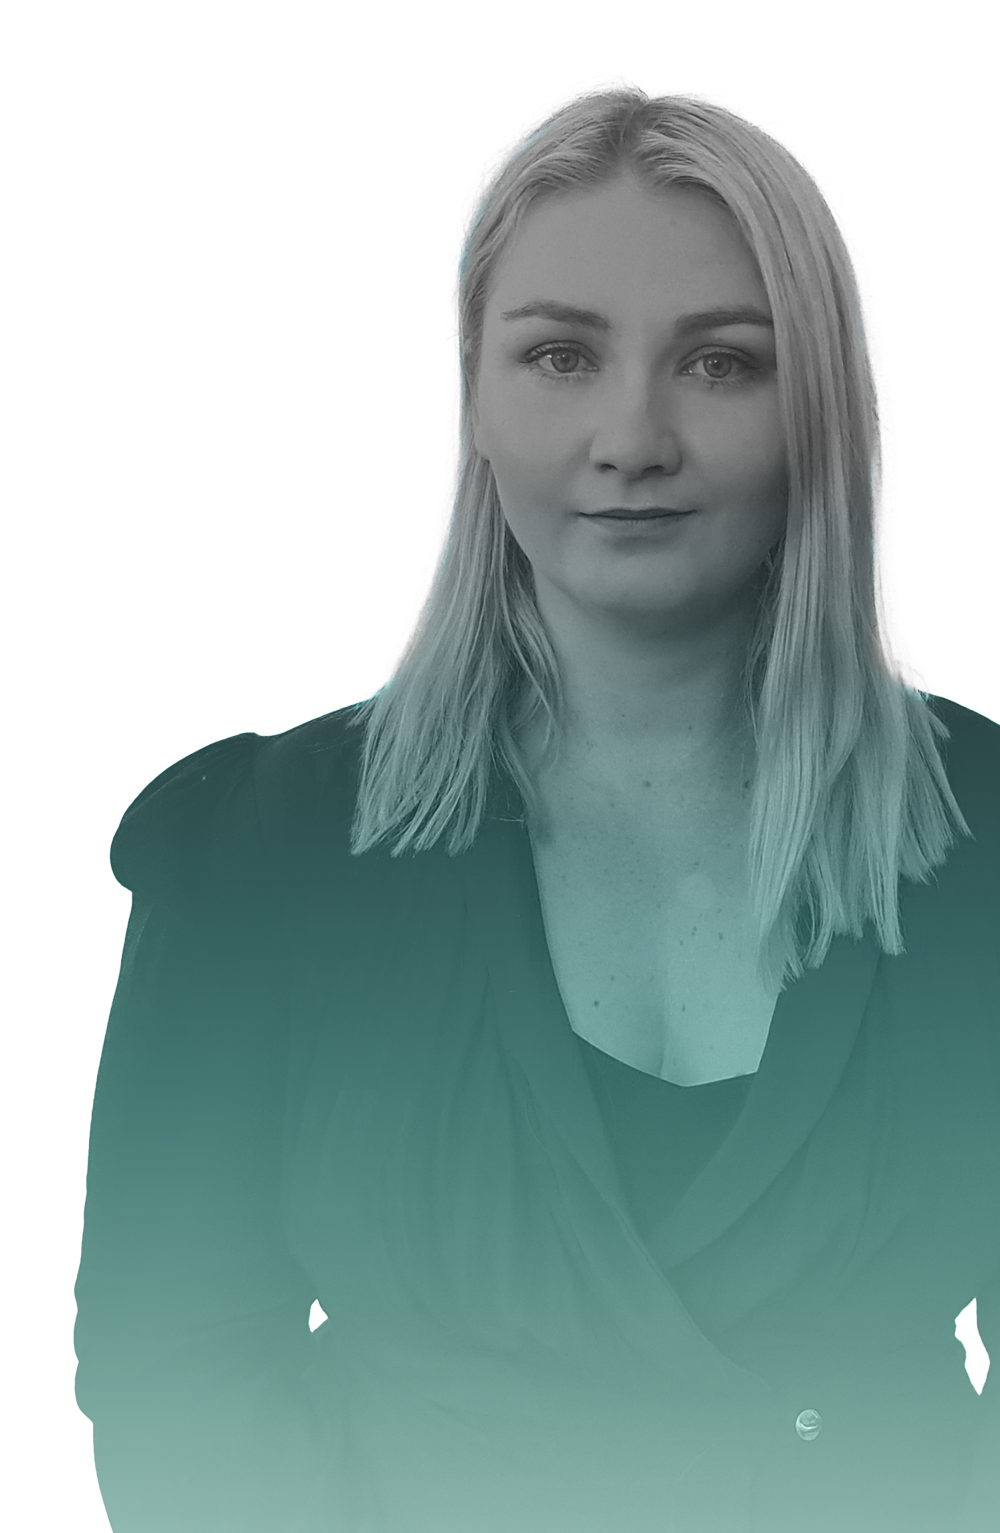
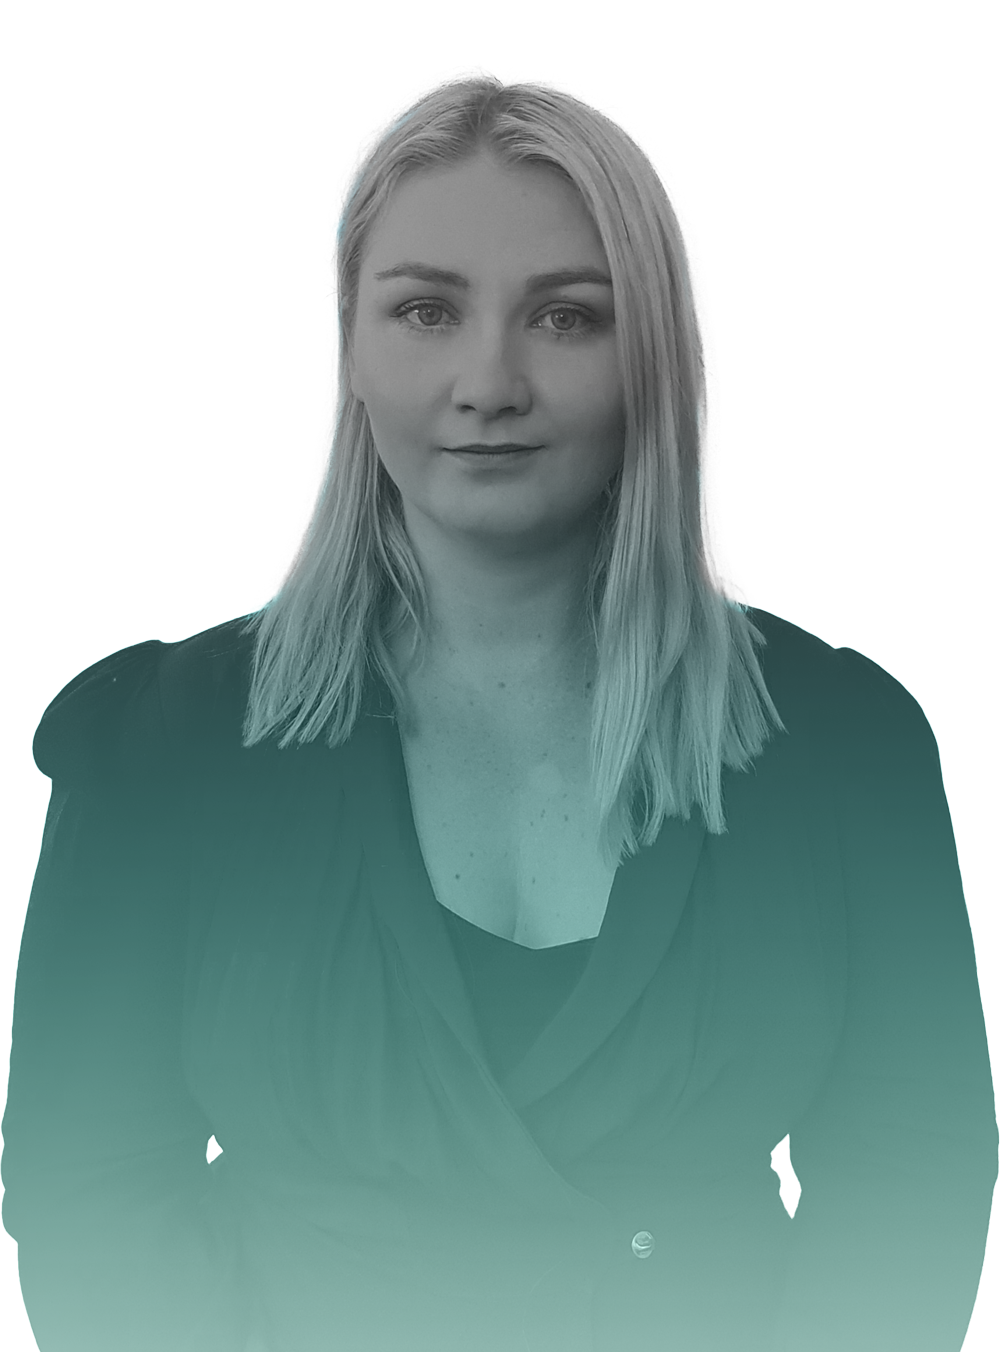
further adjusted career page styling. Started Portfolio outline

diff --git a/CSS/Career.css b/CSS/Career.css
@@ -41,10 +41,15 @@
 
 
 .resume {
-    margin-top: 10%;
+    margin-top: 5%;
     justify-items: center;
     display: grid;
-    margin-bottom: 10%;
+    margin-bottom: 0%;
+    align-content: center;
+}
+
+.career-list-text {
+    display: grid;
     align-content: center;
 }
 
@@ -65,14 +70,14 @@
     }
 
     #career-inforgaphic {
-        height: 400px;
+        height: 500px;
         width: auto;
     }
     
     .career-history{
         display: grid;
         margin-right: 5px;
-        margin-left:5px;
+        margin-left: 5px;
         grid-template-columns: 10% 90%;
     }
 
@@ -115,9 +120,6 @@
 
 
 
-
-
-
 /* Tablet Design */
 @media (max-width: 768px) and (min-width: 480px) {
 
@@ -146,7 +148,8 @@ text-align: center;
 }
 
 #career-head-text {
-    font-size: 80px;
+    font-size: 100px;
+    padding-left: 15px;
 }
 
 
@@ -160,10 +163,11 @@ text-align: center;
 
     .career-history{
         display: grid;
-        margin-right: 15px;
-        margin-left:15px;
+        margin-right: 40px;
+        margin-left: 40px;
         margin-top: 8%;
         grid-template-columns: 15% 85%;
+        
     }
 
     #resume-infographic {
@@ -177,7 +181,7 @@ text-align: center;
 
 
 /* Laptop Desgin */
-@media (max-width: 900px) and (min-width: 768px) {
+@media (max-width: 900px) and (min-width: 769px) {
 
     .career-header {
         display: grid;
@@ -185,7 +189,6 @@ text-align: center;
         text-align: center;
         
         }
-        
         
         
         .portfolio {
@@ -206,7 +209,7 @@ text-align: center;
     
         
         #career-head-text {
-            font-size: 80px;
+            font-size: 120px;
         }
         
         
@@ -220,8 +223,8 @@ text-align: center;
         
             .career-history{
                 display: grid;
-                margin-right: 15px;
-                margin-left:15px;
+                margin-right: 60px;
+                margin-left:60px;
                 margin-top: 8%;
                 grid-template-columns: 15% 85%;
             }
@@ -231,12 +234,30 @@ text-align: center;
                 width: auto;
             }
 
+
+
 }
 
 
 /* Laptop large des Desgin */
 
 @media (max-width: 1025px) and (min-width: 900px) {
+
+    h2 {
+        font-size: 35px;
+    }
+
+    h3 { 
+        font-size: 25px;
+    }
+
+    h4 {
+        font-size: 20px;
+    }
+
+    p {
+        font-size: 15px;
+    }
 
     .career-header {
         display: grid;
@@ -276,8 +297,8 @@ text-align: center;
         
             .career-history{
                 display: grid;
-                margin-right: 15px;
-                margin-left:15px;
+                margin-right: 80px;
+                margin-left:80px;
                 margin-top: 8%;
                 grid-template-columns: 15% 85%;
             }
@@ -287,12 +308,31 @@ text-align: center;
                 width: auto;
             }
 
+
 }
 
 
 /* Large (TV) Desgin */
 
 @media (min-width: 1025px) {
+
+
+    h2 {
+        font-size: 40px;
+    }
+
+    h3 { 
+        font-size: 30px;
+    }
+
+    h4 {
+        font-size: 25px;
+    }
+
+    p {
+        font-size: 20px;
+    }
+
 
     .career-header {
         display: grid;
@@ -310,12 +350,12 @@ text-align: center;
         
         .career-about {background-image: url(/Images/Portfolio-face-half.png);
             background-repeat: no-repeat;
-            background-size: 400px auto;
+            background-size: 600px auto;
             background-position-x: right;
             display: grid;
-            grid-template-rows: 400px;
+            grid-template-rows: 600px;
             display: grid;
-            grid-template-columns: 60% 40%;
+            grid-template-columns: 75% 20%;
         
         }
         
@@ -334,17 +374,23 @@ text-align: center;
         
         .career-history{
                 display: grid;
-                margin-right: 15px;
-                margin-left:15px;
+                margin-right:100px;
+                margin-left:100px;
                 margin-top: 8%;
-                grid-template-columns: 15% 85%;
+                grid-template-columns: 10% 90%;
+       
+                
             }
         
             #resume-infographic {
-                height: 250px;
+                height: 275px;
                 width: auto;
             }
 
+            #career-inforgaphic {
+                height: 1300px;
+                width: auto;
+            }
 
 }
 

diff --git a/Portfolio.html b/Portfolio.html
@@ -1,0 +1,110 @@
+<!doctype html>
+<html lang="en">
+
+  <!-- TO REMOVE THIS STYLESHEET?TEST TOMORROW <link rel="stylesheet" href="https://cdnjs.cloudflare.com/ajax/libs/font-awesome/4.7.0/css/font-awesome.min.css"> --> 
+
+<head>
+    
+    <meta name="viewport" content="width=device-width, initial-scale=1.0">
+    <title>Matilda Morton</title>
+    <meta content="width=device-width, initial-scale=1" name="viewport">
+    <link href="/CSS/style.css" rel="stylesheet" type="text/css">
+    <link href="/css/media.css" rel="stylesheet" type="text/css">
+    <link href="/CSS/Typography.css" rel="stylesheet" type="text/css">
+    <link rel="stylesheet" href="https://use.typekit.net/stm0vww.css">
+
+</head>
+
+<body>
+
+  <!-- Website navigation -->
+  <nav class="navbar">
+    <div class="logo"><img src="/Images/RLDesign.svg" id="top-logo" alt="RLDesign Logo"></div>
+
+    <a href="#" class="toggle-menu">
+      <span class="bar"></span>
+      <span class="bar"></span>
+      <span class="bar"></span>
+    </a>
+
+    <div class="navbar-links">
+      <ul>
+        <li><a href="index.html">About</a></li>
+        <li><a href="Portfolio.html">Portfolio</a></li>
+        <li><a href="Career.html">Career</a></li>
+        <li><a href="Contact.html">Connect</a></li>
+        <li><a href="blog.html">Blog</a></li>
+    </ul>
+    </div>
+  </nav>
+
+  <!-- first section containter -->
+
+<div class="port-head">
+    <div>
+        <a href="#"> <img src="" alt="Image showing portfolio item to Project"> </a>
+    </div>
+
+
+</div>
+
+
+
+
+<!--FOOTER-->
+
+<footer>
+<div class="footer-nav-block">
+  <div class="footer-nav">
+    <a href="#"><p id="footer-nav">About</p></a>
+  </div>
+ 
+  <div class="footer-nav">
+    <a href="#"><p id="footer-nav">Projects</p></a>
+  </div>
+
+  <div class="footer-nav">
+    <a href="#"><p id="footer-nav">Career</p></a>
+  </div>
+
+  <div class="footer-nav">
+    <a href="#"><p id="footer-nav">Connect</p></a>
+  </div>
+
+  <div class="footer-nav">
+    <a href="#"><p id="footer-nav">Blog</p></a>
+  </div>
+</div>
+
+<div class="socials">
+  <div class="footer">
+    <a href="https://twitter.com/Matilda74190430"><img src="/Images/Twitter-logo.svg" ID="social-media" alt="Twitter logo"></a>
+  </div>
+
+  <div class="footer">
+    <a href="https://www.instagram.com/flexibly.div.ided"><img src="/Images/Insta-logo.svg" ID="social-media" alt="Instagram icon"></a>
+  </div>
+
+  <div class="footer">
+    <a href="www.linkedin.com/in/matilda-morton-949341121"><img src="/Images/LinkedIn logo.svg" ID="social-media" alt="LinkedIn icon"></a>
+  </div>
+  
+  <div class="footer">
+    <a href="https://github.com/MatildaMortonCode"><img src="/Images/Github-logo.svg" ID="social-media" alt="GitHub icon"></a>
+  </div>
+
+  <div class="footer">
+    <a href="https://twitter.com/Matilda74190430"><img src="/Images/Email-logo.svg" ID="social-media" alt="Email icon"></a>
+  </div>
+
+  <div class="footer">
+    <a href="https://twitter.com/Matilda74190430"><img src="/Images/Phone logo.svg" ID="social-media" alt="Social media icon"></a>
+  </div>
+
+</div>
+
+
+</footer>
+
+
+</body>

diff --git a/Career.html b/Career.html
@@ -41,7 +41,7 @@
   <!-- first section containter -->
 <div class="career-about">
   
-    <div class="portfolio"><img src="/Images/Portfolio.png" id="portrait">
+    <div class="portfolio"><img src="/Images/Portfolio-mobile-full.png" id="portrait">
     
     </div>
     <div class="career-header">
@@ -57,36 +57,37 @@
     </div>
 
     <div class="career-list-text">
-        <h2 ID="career-title"> L&D Business Partner</h2>
-        <h3 ID="career-organistion">Deaf Services</h3>
-        <h4 ID="career-date"> Sept 2020 - Current</h4>
+      <h4 ID="career-date"> Sept 2020 - Current</h4>  
+      <h2 ID="career-title"> L&D Business Partner</h2>
+      <h3 ID="career-organistion">Deaf Services</h3>
         
         <p>Responsible for the organisational strategic learning. Deliver on range of bespoke learning solutions, with accessability being in the forefront of design planning. Service departmental training needs.  </p>
     </div>
    
 
     <div class="career-list-text">
-        <h2 ID="career-title"> L&D Business Partner</h2>
-        <h3 ID="career-organistion">Deaf Services</h3>
-        <h4 ID="career-date"> Sept 2020 - Current</h4>
+      <h4 ID="career-date"> Sept 2020 - Current</h4>  
+      <h2 ID="career-title"> L&D Business Partner</h2>
+      <h3 ID="career-organistion">Deaf Services</h3>
         
         <p>Responsible for the organisational strategic learning. Deliver on range of bespoke learning solutions, with accessability being in the forefront of design planning. Service departmental training needs.  </p>
     </div>
 
 
     <div class="career-list-text">
-        <h2 ID="career-title"> L&D Business Partner</h2>
-        <h3 ID="career-organistion">Deaf Services</h3>
-        <h4 ID="career-date"> Sept 2020 - Current</h4>
+      <h4 ID="career-date"> Sept 2020 - Current</h4>  
+      <h2 ID="career-title"> L&D Business Partner</h2>
+      <h3 ID="career-organistion">Deaf Services</h3>
         
         <p>Responsible for the organisational strategic learning. Deliver on range of bespoke learning solutions, with accessability being in the forefront of design planning. Service departmental training needs.  </p>
     </div>
 
 
     <div class="career-list-text">
-        <h2 ID="career-title"> L&D Business Partner</h2>
-        <h3 ID="career-organistion">Deaf Services</h3>
-        <h4 ID="career-date"> Sept 2020 - Current</h4>
+      <h4 ID="career-date"> Sept 2020 - Current</h4>  
+      <h2 ID="career-title"> L&D Business Partner</h2>
+      <h3 ID="career-organistion">Deaf Services</h3>
+        
         
         <p>Responsible for the organisational strategic learning. Deliver on range of bespoke learning solutions, with accessability being in the forefront of design planning. Service departmental training needs.  </p>
     </div>
